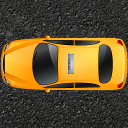
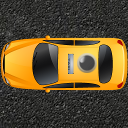
Implement the reserved taxi state

Changed region(s): [[0.5938, 0.4062, 0.7812, 0.5938]]

diff --git a/taxi.cpp b/taxi.cpp
@@ -17,28 +17,32 @@ void Taxi::move()
     {
         char dir=path.top();
         path.pop();
+
         if(dir== 'r')
         {
             (*cells)[x][y]->setState(cell :: Road);
             y++;
-            if(occupied)
+            if(customerDestinationx!=-1)
+                (*cells)[x][y]->setState(cell :: ReservedTaxi);
+            else if(occupied)
                 (*cells)[x][y]->setState(cell :: OccupiedTaxi);
             else
                 (*cells)[x][y]->setState(cell :: VacantTaxi);
 
             (*cells)[x][y]->rotateLabel(true);
             (*cells)[x][y]->rotateLabel(true);
-
-
         }
         else if(dir == 'l')
         {
             (*cells)[x][y]->setState(cell :: Road);
             y--;
-            if(occupied)
+            if(customerDestinationx!=-1)
+                (*cells)[x][y]->setState(cell :: ReservedTaxi);
+            else if(occupied)
                 (*cells)[x][y]->setState(cell :: OccupiedTaxi);
             else
                 (*cells)[x][y]->setState(cell :: VacantTaxi);
+
 
 
         }
@@ -46,10 +50,13 @@ void Taxi::move()
         {
             (*cells)[x][y]->setState(cell :: Road);
             x--;
-            if(occupied)
+            if(customerDestinationx!=-1)
+                (*cells)[x][y]->setState(cell :: ReservedTaxi);
+            else if(occupied)
                 (*cells)[x][y]->setState(cell :: OccupiedTaxi);
             else
                 (*cells)[x][y]->setState(cell :: VacantTaxi);
+
 
             (*cells)[x][y]->rotateLabel(false);
 
@@ -58,10 +65,13 @@ void Taxi::move()
         {
             (*cells)[x][y]->setState(cell :: Road);
             x++;
-            if(occupied)
+            if(customerDestinationx!=-1)
+                (*cells)[x][y]->setState(cell :: ReservedTaxi);
+            else if(occupied)
                 (*cells)[x][y]->setState(cell :: OccupiedTaxi);
             else
                 (*cells)[x][y]->setState(cell :: VacantTaxi);
+
 
             (*cells)[x][y]->rotateLabel(true);
 
@@ -70,6 +80,22 @@ void Taxi::move()
         {
             path=findPath(customerDestinationx,customerDestinationy);
             (*cells)[customerLocationx][customerLocationy]->setState(cell :: Pavement);
+            (*cells)[x][y]->setState(cell :: OccupiedTaxi);
+            if(orientation=='r')
+            {
+                (*cells)[x][y]->rotateLabel(true);
+                (*cells)[x][y]->rotateLabel(true);
+            }
+            else if(orientation=='d')
+            {
+                (*cells)[x][y]->rotateLabel(true);
+            }
+            else if(orientation=='u')
+            {
+                (*cells)[x][y]->rotateLabel(false);
+            }
+
+            customerLocationx=customerLocationy=customerDestinationx=customerDestinationy=-1;
             occupied=1;
         }
         orientation=dir;
@@ -78,24 +104,20 @@ void Taxi::move()
     {
         if(occupied)
         {
-            customerLocationx=customerLocationy=customerDestinationx=customerDestinationy=-1;
             occupied=0;
             (*cells)[x][y]->setState(cell :: VacantTaxi);
             if(orientation=='r')
             {
                 (*cells)[x][y]->rotateLabel(true);
                 (*cells)[x][y]->rotateLabel(true);
-                orientation='r';
             }
             else if(orientation=='d')
             {
                 (*cells)[x][y]->rotateLabel(true);
-                orientation='d';
             }
             else if(orientation=='u')
             {
                 (*cells)[x][y]->rotateLabel(false);
-                orientation='u';
             }
         }
 
@@ -105,8 +127,7 @@ void Taxi::move()
 std::stack<char> Taxi::findPath(int desx,int desy)
 {
    std::stack<char> taxi_path;
-   std::vector<std::vector<cell*>>* g=Grid::getgrid();
-   std::vector<std::vector<cell*>> v=*g;
+   std::vector<std::vector<cell*>> v=*Grid::getgrid();
    int numRows=v.size();
    int numCols=v[0].size();
    std::vector<std::vector<char>>par(numRows,std::vector<char>(numCols,'s'));
@@ -119,7 +140,6 @@ std::stack<char> Taxi::findPath(int desx,int desy)
    {
        int curx = q.front().first,cury=q.front().second; q.pop();
        vis[curx][cury]=1;
-       //qDebug()<<"curx"<<curx<<"cury"<<cury;
 
        /*   r
         * r p r
@@ -127,7 +147,6 @@ std::stack<char> Taxi::findPath(int desx,int desy)
         */
        if((abs(curx-desx)+abs(cury-desy))==1)
        {
-           //qDebug()<<"done";
            while(!q.empty())
                q.pop();
 
@@ -186,6 +205,7 @@ std::stack<char> Taxi::findPath(int desx,int desy)
        }
 
     }
+   return std::stack<char>();
 }
 
 void Taxi::setPath(std::stack<char> p)

diff --git a/cell.cpp b/cell.cpp
@@ -30,8 +30,9 @@ void cell::ImageUpd(double w,double h)
     QPixmap roadPixmap(":/images/road.jpg");
     QPixmap pavPixmap(":/images/pav.jpg");
     QPixmap customerPixmap(":/images/customer.png");
-    QPixmap occupiedTaxiPixmap(":/images/taxi_occupied.png");
-    QPixmap vacantTaxiPixmap(":/images/taxi_vacant.png");
+    QPixmap occupiedTaxiPixmap(":/images/occupied_taxi.png");
+    QPixmap vacantTaxiPixmap(":/images/taxi.png");
+    QPixmap reservedTaxiPixmap(":/images/reserved_taxi.png");
 
 
 
@@ -43,6 +44,7 @@ void cell::ImageUpd(double w,double h)
         case Customer:  setPixmap(customerPixmap.scaled(w,h,Qt::KeepAspectRatio,Qt::SmoothTransformation)); break;
         case OccupiedTaxi: setPixmap(occupiedTaxiPixmap.scaled(w,h,Qt::KeepAspectRatio,Qt::SmoothTransformation)); break;
         case VacantTaxi:setPixmap(vacantTaxiPixmap.scaled(w,h,Qt::KeepAspectRatio,Qt::SmoothTransformation)); break;
+        case ReservedTaxi: setPixmap(reservedTaxiPixmap.scaled(w,h,Qt::KeepAspectRatio,Qt::SmoothTransformation)); break;
 
     }
     //rotateLabel(true);   

diff --git a/cell.h b/cell.h
@@ -6,7 +6,7 @@ class cell : public QLabel
 {
     Q_OBJECT
 public:
-    enum State {Pavement, Road , VacantTaxi ,OccupiedTaxi, Customer};
+    enum State {Pavement, Road , VacantTaxi ,OccupiedTaxi, ReservedTaxi, Customer};
     cell (QWidget *parent = 0) ;
     State getState();
     bool isRoad();
